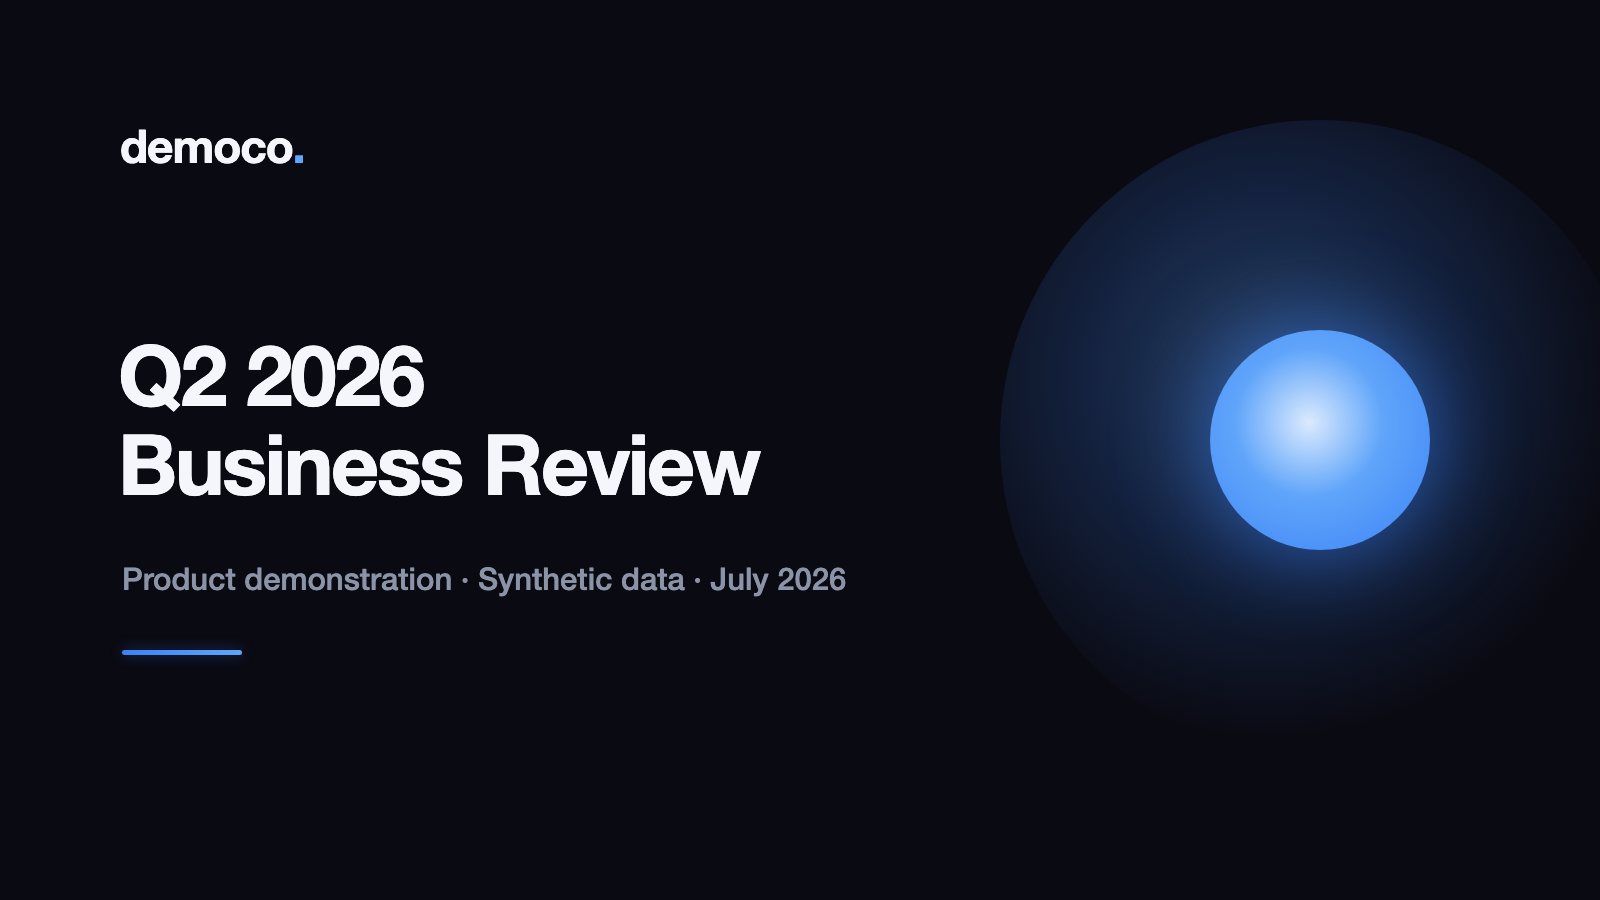
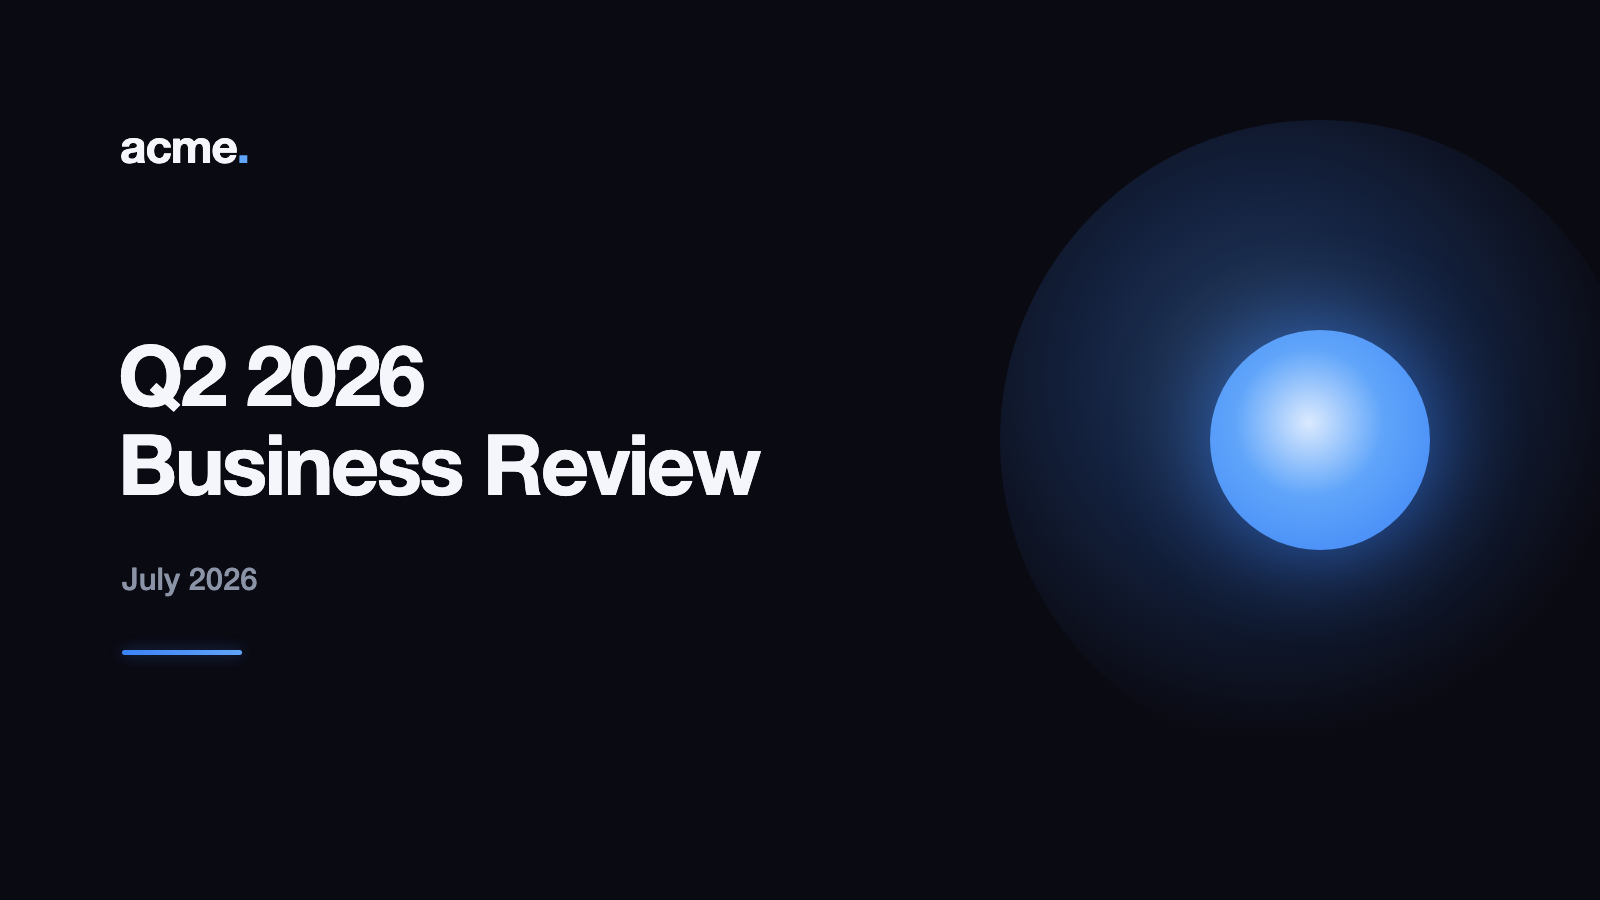
Simplify project descriptions and user-facing copy

Changed region(s): [[0.0625, 0.6222, 0.5312, 0.6533], [0.0625, 0.1556, 0.1875, 0.1867]]

diff --git a/lib/mock.ts b/lib/mock.ts
@@ -1,5 +1,5 @@
-// Demo/mock mode: serves a canned deck with zero external dependencies.
-// Enabled with MOCK_DECK=1. Used for recording product demos.
+// Example mode serves the bundled deck without external calls.
+// Enabled with MOCK_DECK=1.
 import 'server-only';
 
 import type { PresentationData, ThumbnailData, BoundingBox } from './types';

diff --git a/README.md b/README.md
@@ -12,14 +12,14 @@ Machines alone do a bad job of reading slides full of diagrams, charts, and scre
 - **Everything is editable.** Every extracted block is a rich markdown editor. Fix a word, restructure a list, delete a paragraph - like writing in Notion.
 - **One master document.** Everything you keep flows into a single markdown doc, organized slide by slide, updated live. Copy it or download it as a `.md` file.
 
-## Try the demo without API keys
+## Quick start
 
 ```sh
 pnpm install --frozen-lockfile
 MOCK_DECK=1 pnpm dev
 ```
 
-Open http://localhost:3000 and enter any Google Slides URL. The bundled DemoCo deck and extraction responses are fictional. See [demo recording instructions](docs/DEMO.md).
+Open http://localhost:3000 and enter a Google Slides URL. `MOCK_DECK=1` uses the bundled Acme deck and saved extraction responses. See [recording instructions](docs/RECORDING.md).
 
 ## Getting started with your own decks
 
@@ -81,14 +81,12 @@ Set in `.env`:
 | --- | --- | --- |
 | `ANTHROPIC_API_KEY` | Anthropic API key for vision extraction | (required) |
 | `VISION_MODEL` | Which model reads your visuals | `claude-sonnet-4-6` |
-| `MOCK_DECK` | Set to `1` to serve the bundled demo deck instead of calling Google Slides or Anthropic | unset |
+| `MOCK_DECK` | Set to `1` to use the bundled deck and saved responses | unset |
 | `MOCK_EXTRACT_DELAY_MS` | Artificial delay for mock visual extraction, in milliseconds | `700` |
 
-## Demo mode
+## Example data
 
-Set `MOCK_DECK=1` to run SlideScanner against the bundled mock deck and canned extraction responses. This is intended for product demos and recordings; leave it unset for normal behavior with Google Slides and Anthropic.
-
-`MOCK_EXTRACT_DELAY_MS` controls the simulated extraction latency in demo mode. Set it to `0` for instant mock extraction.
+Leave `MOCK_DECK` unset to use Google Slides and Anthropic. `MOCK_EXTRACT_DELAY_MS=0` makes saved responses appear instantly.
 
 ## Good to know
 
@@ -100,11 +98,11 @@ Set `MOCK_DECK=1` to run SlideScanner against the bundled mock deck and canned e
 
 The backend (Next.js API routes) pulls the deck structure from the Google Slides API - element positions, types, and text - and renders slide thumbnails. The frontend overlays clickable bounding boxes on each slide. When you wand an element, the server crops that region out of the slide image with `sharp` and sends it to Claude via the Anthropic API with a prompt tuned to the element type (table, chart, diagram, screenshot). The result lands in the side pane as editable markdown, and the master document is recomputed from all kept blocks on every change.
 
-## Local prototype scope
+## Local use
 
-Run this as a local, single-user tool. It has no public-service authentication layer. Google access uses the credentials of the machine running it, and visual extraction sends selected content to the configured model endpoint. Keep it bound to localhost.
+Run on localhost. Google access uses your machine credentials; visual extraction sends the selected content to the configured model provider.
 
-The editor currently uses Tiptap v2 with tiptap-markdown 0.9; the latter declares a v3 peer dependency. Dependency audit also reports a Tiptap mergeAttributes advisory whose published patched range is v3.30.4 or later. A coordinated editor migration remains future work. Do not deploy this prototype as a public service handling untrusted content.
+The editor uses Tiptap v2 with a known `mergeAttributes` advisory. Upgrade the editor before exposing it as a service that accepts untrusted content.
 
 ## License
 

diff --git a/docs/RECORDING.md b/docs/RECORDING.md
@@ -1,0 +1,13 @@
+# Record a walkthrough
+
+Use the bundled Acme deck to record navigation, extraction, editing, and Markdown export without external API calls.
+
+```sh
+pnpm demo:assets
+MOCK_DECK=1 pnpm dev
+# In another terminal:
+pnpm demo:record
+pnpm demo:encode
+```
+
+The asset generator keeps slide artwork and element geometry in sync. Recording requires Playwright Chromium; encoding requires ffmpeg. Videos stay outside Git.
